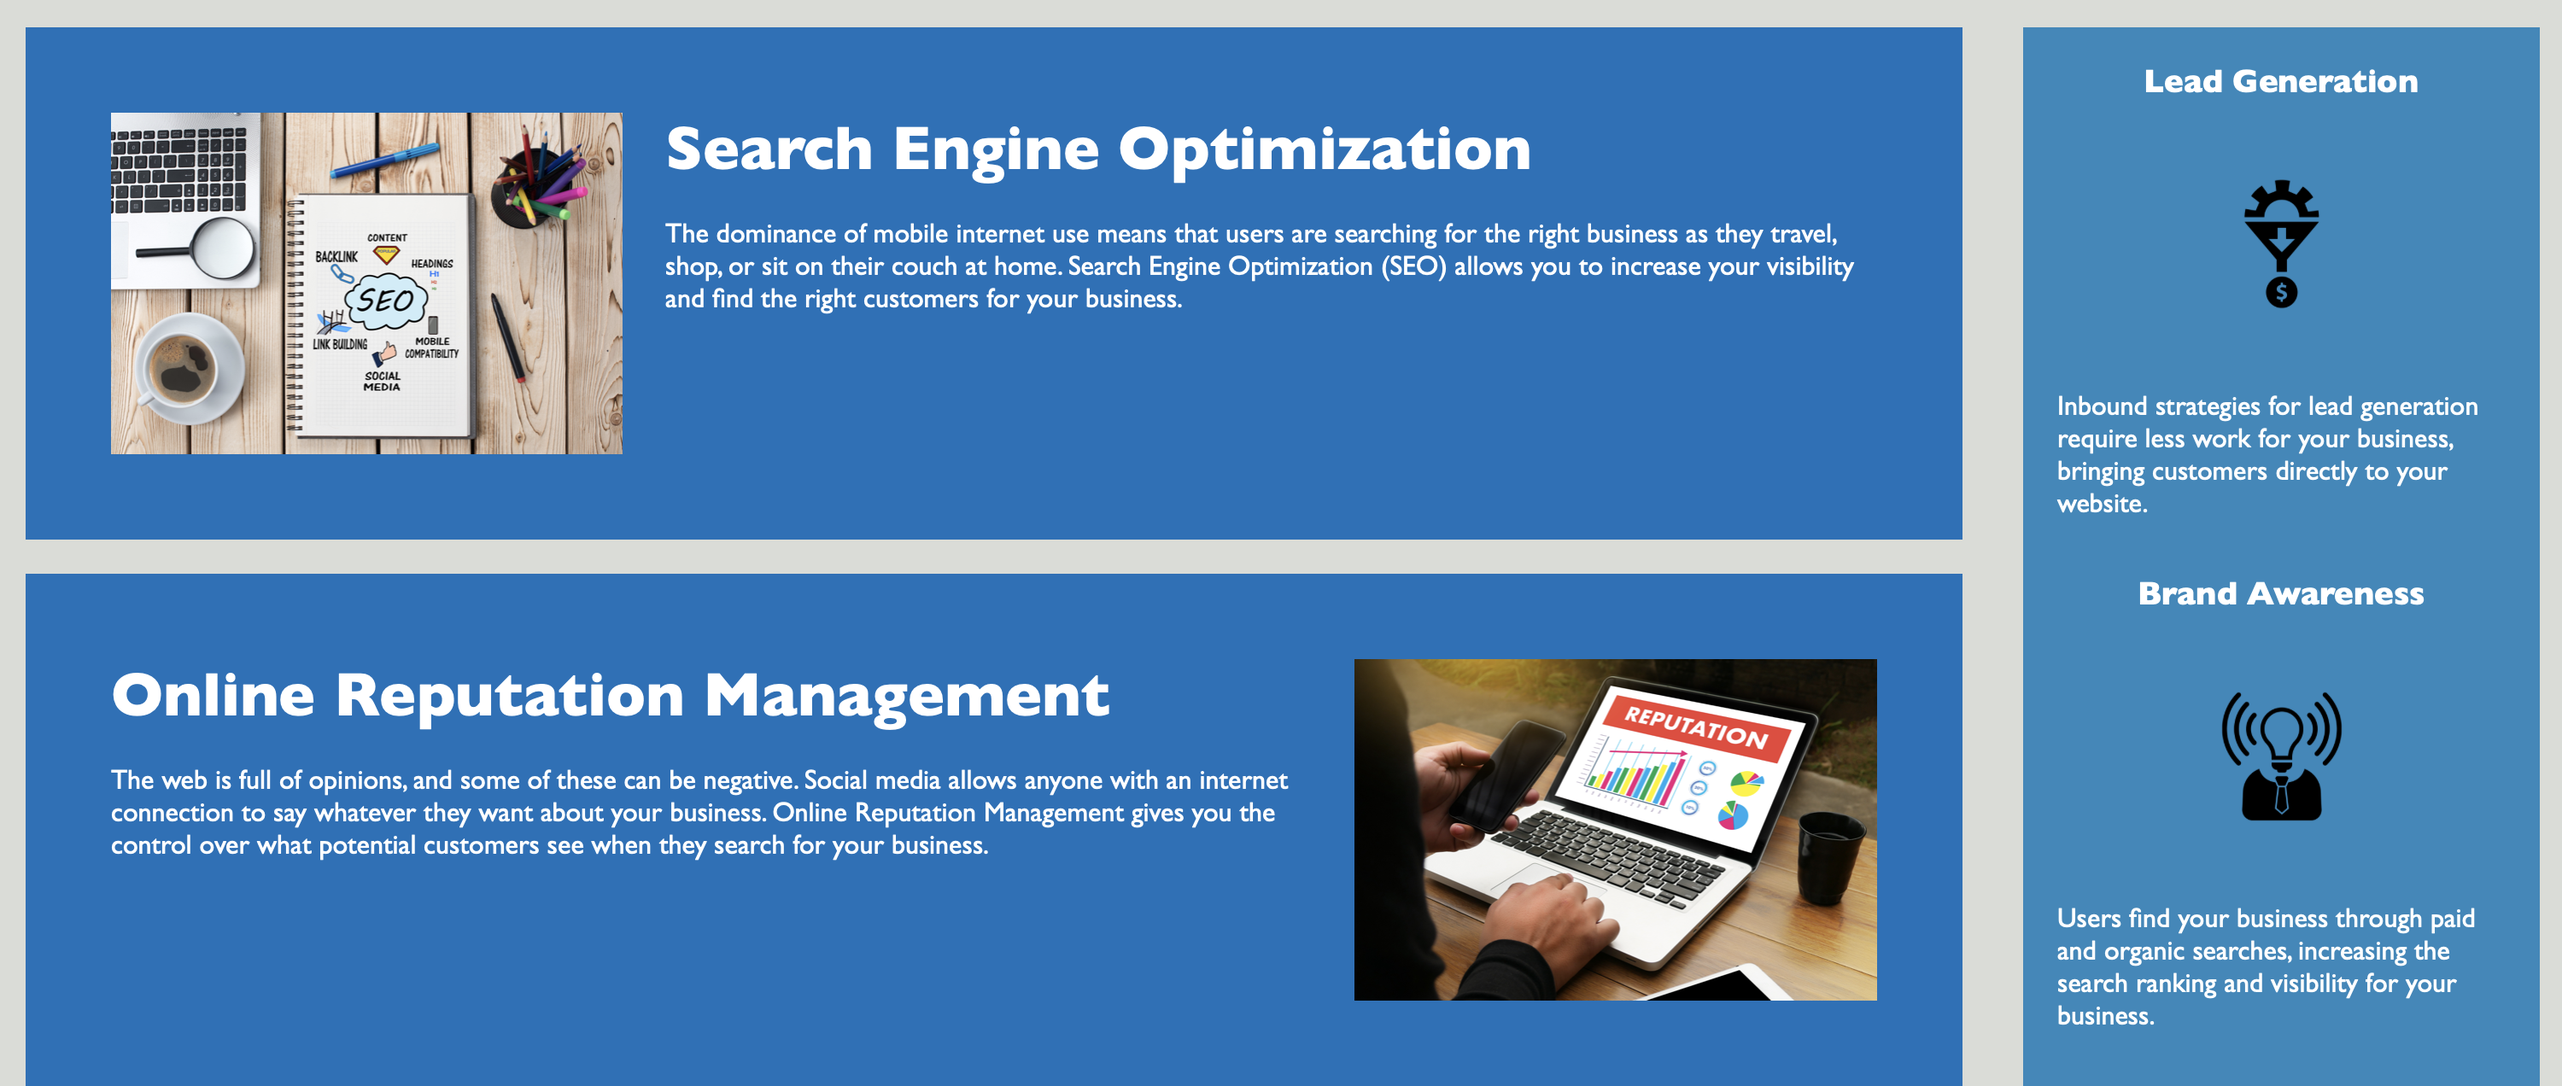
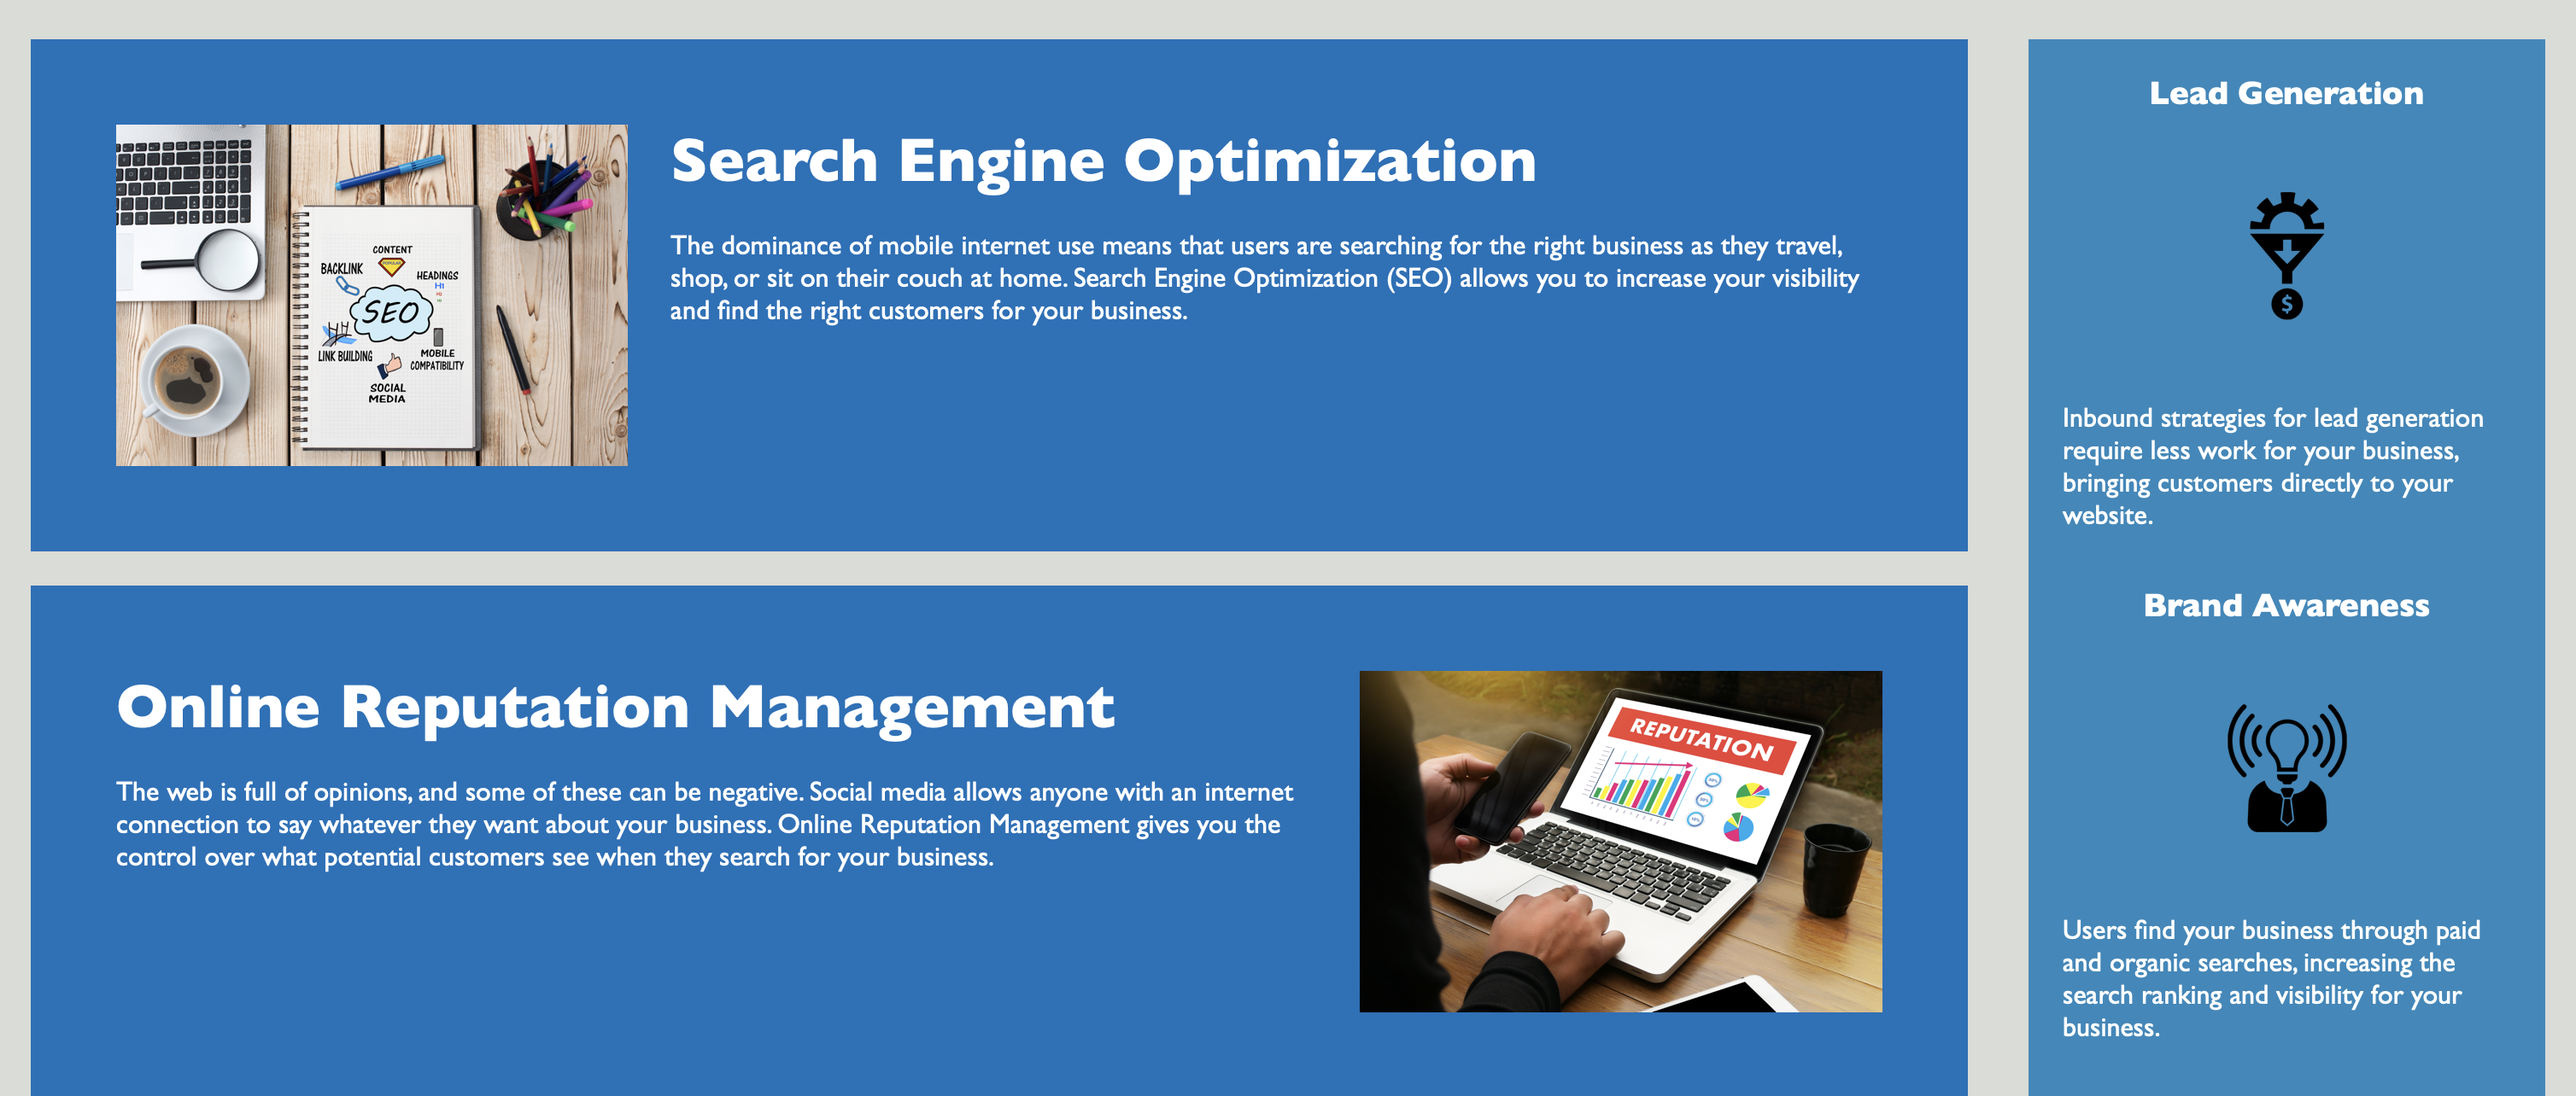
improved the code

diff --git a/index.html b/index.html
@@ -4,6 +4,7 @@
 <html lang="en-us">
 
 <!-- Machine-readable information about accessibility, search engines, and performance -->
+
 <head>
     <!-- To add the special characters directly into HTML without their HTML codes (entities) -->
     <meta charset="UTF-8" />
@@ -19,13 +20,14 @@
 </head>
 
 <!-- Contains the content that is shown to the user -->
+
 <body>
 
     <header>
         <!-- Span added for styling purpose -->
         <h1>Broad<span class="en">en</span>Way</h1>
         <nav>
-            <!--The href attribute creates a link to the article ids using the "#" -->
+            <!--The href attribute creates a link to the section ids using the "#" -->
             <a href="#search-engine-optimization">Search Engine Optimization</a>
             <a href="#online-reputation-management">Online Reputation Management</a>
             <a href="#social-media-marketing">Social Media Marketing</a>
@@ -33,13 +35,19 @@
     </header>
 
     <main>
+
         <figure>
             <!-- Keep the descriptive alt attributes in case the image cannot be displayed by the user and also to improve search engine rankings -->
             <img src="./assets/images/digital-marketing-meeting.jpg" alt="group working together" />
         </figure>
-        <section class="content-section">
-            <!-- The id attribute was added to link the nav to the article -->
-            <article id="search-engine-optimization">
+
+        <article>
+            <!-- Each article should include a heading to identify it and is useful for assistive technology users.
+                 The class attribute was added to not affect the visual output  -->
+            <h2 class="hidden">Description of services offered by BroadenWay</h2>
+
+            <!-- The id attribute has been added to link the nav to its related section -->
+            <section id="search-engine-optimization">
                 <!-- The class attribute was added for positioning -->
                 <img src="./assets/images/search-engine-optimization.jpg" class="float-left"
                     alt="a laptop, coffee, magnifying glass, pens and notebook on a wooden table" />
@@ -49,8 +57,9 @@
                     travel, shop, or sit on their couch at home. Search Engine Optimization (SEO) allows you to increase
                     your visibility and find the right customers for your business.
                 </p>
-            </article>
-            <article id="online-reputation-management">
+            </section>
+
+            <section id="online-reputation-management">
                 <img src="./assets/images/online-reputation-management.jpg" class="float-right"
                     alt="a person holding a smartphone and typing on a laptop" />
                 <h2>Online Reputation Management</h2>
@@ -60,8 +69,9 @@
                     gives
                     you the control over what potential customers see when they search for your business.
                 </p>
-            </article>
-            <article id="social-media-marketing">
+            </section>
+
+            <section id="social-media-marketing">
                 <img src="./assets/images/social-media-marketing.jpg" class="float-left"
                     alt="a wooden table with several people using their respective electronics" />
                 <h2>Social Media Marketing</h2>
@@ -71,11 +81,9 @@
                     determine which platforms are suited to your brand, using analytics to find the right markets and
                     increase your lead generation.
                 </p>
-            </article>
-        </section>
-        <!-- Sidebar section -->
-        <section class="benefits-section">
-            <!-- The aside elements are presented inside the sidebar -->
+            </section>
+
+            <!-- Sidebar section -->
             <aside>
                 <h3>Lead Generation</h3>
                 <img src="./assets/images/lead-generation.png"
@@ -85,8 +93,6 @@
                     directly
                     to your website.
                 </p>
-            </aside>
-            <aside>
                 <h3>Brand Awareness</h3>
                 <img src="./assets/images/brand-awareness.png"
                     alt="a lamp with a sound effect on the sides that resembles the image of a man in a suit" />
@@ -95,8 +101,6 @@
                     visibility
                     for your business.
                 </p>
-            </aside>
-            <aside>
                 <h3>Cost Management</h3>
                 <img src="./assets/images/cost-management.png" alt="a ratchet and circles with money symbol on it" />
                 <p>
@@ -105,7 +109,9 @@
                     need to advertise your page.
                 </p>
             </aside>
-        </section>
+
+        </article>
+
     </main>
 
     <footer>

diff --git a/assets/style.css b/assets/style.css
@@ -43,14 +43,13 @@ nav a {
 
 header,
 a,
-article,
-aside {
+article {
     color: #ffffff;
 }
 
 h1,
 a,
-.content-section {
+article {
     display: inline-block;
 }
 
@@ -66,28 +65,38 @@ figure img {
     margin-bottom: 25px;
 }
 
-/* Reduces the width to make room for the sidebar */
-.content-section {
-    width: 75%;
-    margin-left: 20px;
+/* Added the relative position so it can adjust itself to fit the sidebar */
+article {
+    position: relative;
 }
 
-/* Added margin-bottom to separate the articles */
-article {
+/* Hides the section's heading */
+.hidden {
+    display: none;
+}
+
+/* Added margin-bottom to separate the articles and reduced the width to make room for the sidebar */
+section {
     margin-bottom: 20px;
     padding: 50px;
     height: 300px;
     background-color: #0072bb;
+    width: 75%;
+    margin-left: 20px;
 }
 
 /* Places a max height to ensure the image it is within the section */
-article img {
+section img {
     max-height: 200px;
 }
 
-article h2 {
+section h2 {
     margin-bottom: 20px;
     font-size: 36px;
+}
+
+p {
+    font-size: 16px;
 }
 
 /* The images in the article with this class are moved to the left side */
@@ -102,23 +111,15 @@ article h2 {
     margin-left: 25px;
 }
 
-p {
-    font-size: 16px;
-}
-
 /* Positions the sidebar to the right of the web page */
-.benefits-section {
+aside {
+    position: absolute;
+    top: 0;
+    right: 0;
+    width: 20%;
     margin-right: 20px;
     padding: 20px;
-    float: right;
-    /* Left the remaining 5% of the total width to create a space between the sections. */
-    width: 20%;
     background-color: #2589bd;
-}
-
-/* Creates a space between the aside elements */
-aside {
-    margin-bottom: 32px;
 }
 
 aside h3 {
@@ -131,6 +132,11 @@ aside img {
     display: block;
     margin: 10px auto;
     max-width: 150px;
+}
+
+/* Creates a space between the aside elements */
+aside p {
+    margin-bottom: 32px;
 }
 
 footer {
